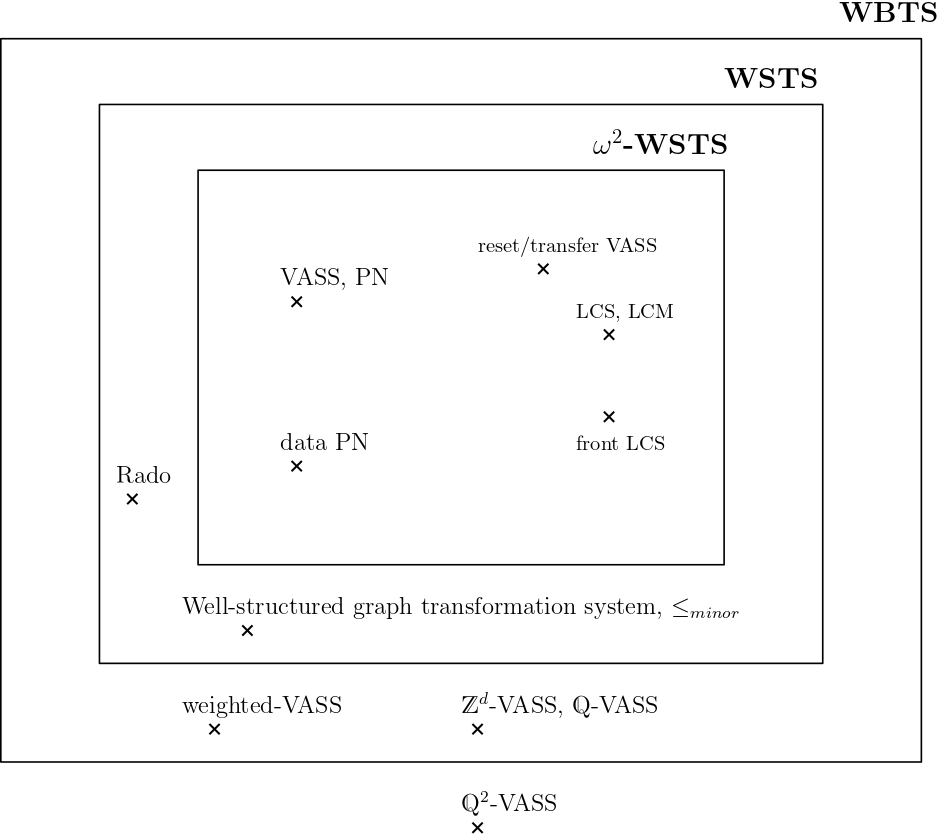
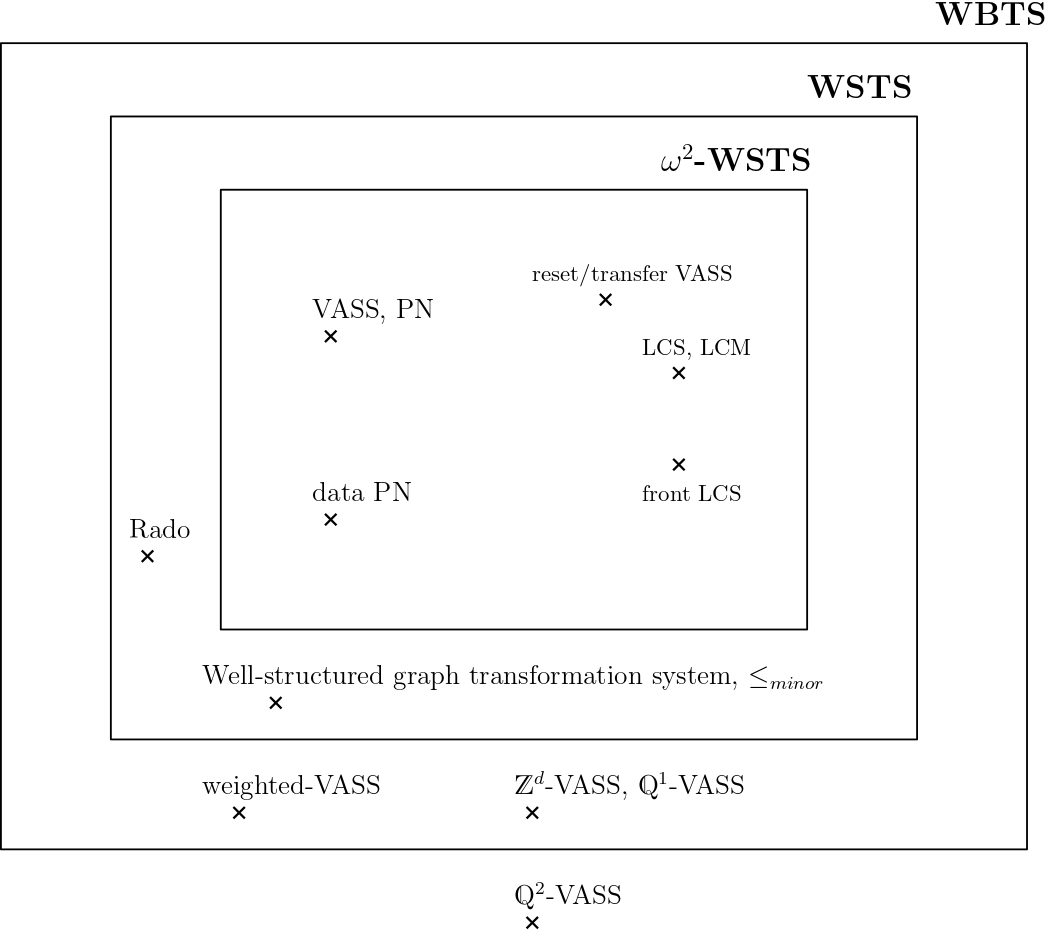
up

diff --git a/VMCAI-revised-version/final.tex b/VMCAI-revised-version/final.tex
@@ -240,9 +240,9 @@ Indeed, from any state with value of the counter bigger than $9$, it is possible
 $q_1(n)$ or $q_0(n)$ with $n \in \{7,8\}$ it is possible to reach $q_0(10)$ in $3$ steps or less, from which $q_1(0)$ is reachable in $2$ steps. 
 \end{example}
 
-Hence we can see how adding transitions can 
-turn a system that is not bounded resilient into one that is. 
-\alain{à quoi sert cette remarque ?}
+% Hence we can see how adding transitions can 
+% turn a system that is not bounded resilient into one that is. 
+% \alain{à quoi sert cette remarque ?}
 
 
 
@@ -1288,7 +1288,7 @@ We deduce from Theorem 3.6 in \cite{DBLP:conf/rp/Schnoebelen10} that $\pred^*(\S
 
 
 
-Continuous VASS \cite{DBLP:journals/tocl/BlondinFHH17} are a relaxation of classical discrete VASS in which transitions can be fired a fractional number of times, and consequently counters may contain a fractional number of tokens.
+Continuous VASS~\cite{DBLP:journals/tocl/BlondinFHH17}, or $\mathds{Q}^d$-VASS are a relaxation of classical discrete VASS in which transitions can be fired a fractional number of times, and consequently counters may contain a fractional number of tokens.
 
 \begin{theorem}\label{RP VASS}
 {\sc Resilience} is decidable for continuous VASS when $\Safe$  is
